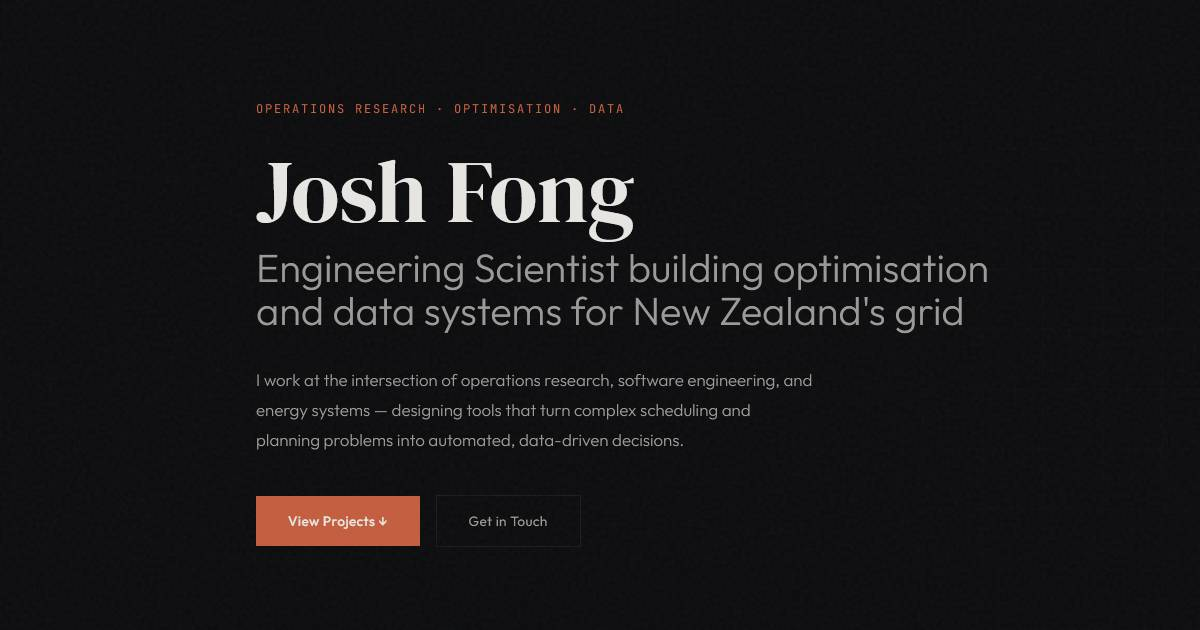
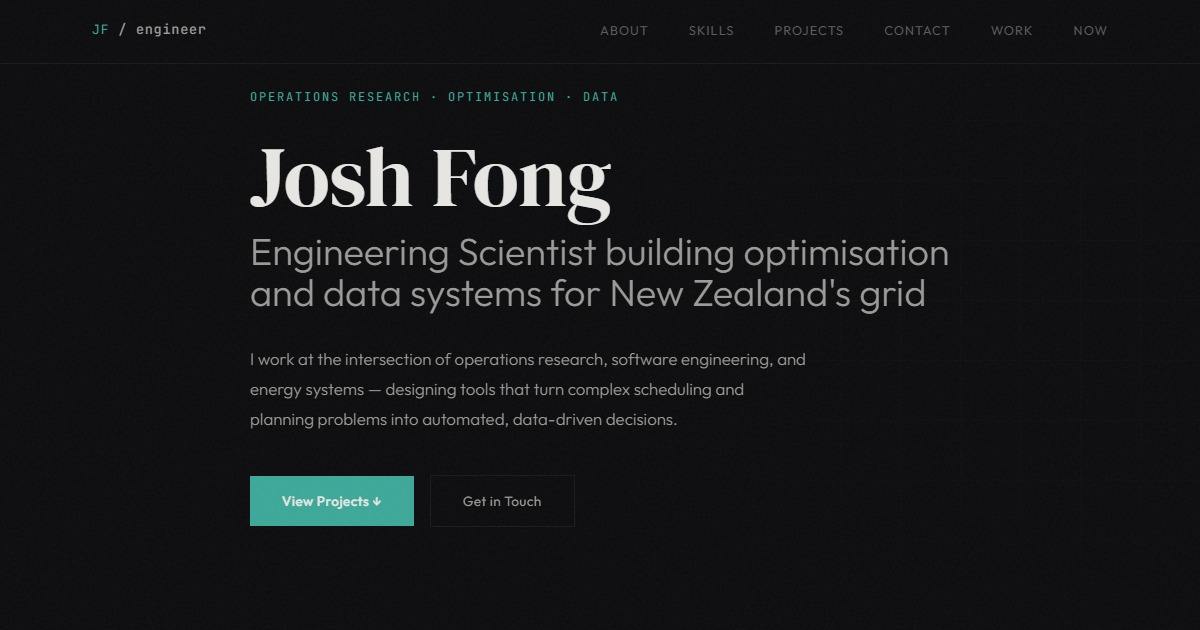
updating accent colour

diff --git a/index.html b/index.html
@@ -8,7 +8,7 @@
   <!-- Open Graph -->
   <meta property="og:title" content="Joshua Fong — Operations Research Engineer" />
   <meta property="og:description" content="Operations Research Engineer specialising in optimisation, scheduling systems, and data analytics for critical infrastructure." />
-  <meta property="og:image" content="https://joshua.fong.nz/images/preview.jpg?v=2" />
+  <meta property="og:image" content="https://joshua.fong.nz/images/preview.jpg?v=3" />
   <meta property="og:url" content="https://joshua.fong.nz/" />
   <meta property="og:type" content="website" />
 
@@ -16,7 +16,7 @@
   <meta name="twitter:card" content="summary_large_image">
   <meta name="twitter:title" content="Joshua Fong — Operations Research Engineer">
   <meta name="twitter:description" content="Optimisation, scheduling systems, and data analytics for critical infrastructure.">
-  <meta name="twitter:image" content="https://joshua.fong.nz/images/preview.jpg?v=2">
+  <meta name="twitter:image" content="https://joshua.fong.nz/images/preview.jpg?v=3">
 
   <link rel="preconnect" href="https://fonts.googleapis.com">
   <link rel="preconnect" href="https://fonts.gstatic.com" crossorigin>

diff --git a/css/variables.css b/css/variables.css
@@ -5,8 +5,8 @@
   --text-primary: #E8E6E3;
   --text-secondary: #9B9A97;
   --text-muted: #5C5B59;
-  --accent: #C45D3E;
-  --accent-glow: rgba(196, 93, 62, 0.15);
+  --accent: #3DA899;
+  --accent-glow: rgba(61, 168, 153, 0.15);
   --border: rgba(255,255,255,0.06);
   --font-display: 'DM Serif Display', Georgia, serif;
   --font-body: 'Outfit', system-ui, sans-serif;
